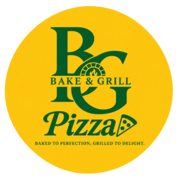
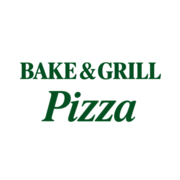
Use text-only Bake & Grill branding (#64)

diff --git a/index.html b/index.html
@@ -14,7 +14,6 @@
 <link rel="manifest" href="manifest.webmanifest">
 <link rel="apple-touch-icon" href="assets/apple-touch-icon.png">
 <link rel="icon" href="assets/favicon.png" type="image/png">
-<link rel="preload" as="image" href="assets/logo.webp" fetchpriority="high">
 <link rel="preconnect" href="https://d2ol7oe51mr4n9.cloudfront.net" crossorigin>
 <meta name="theme-color" content="#171719">
 <title>Pizza Delivery in Sanjua, Bakhrahat | Bake &amp; Grill</title>
@@ -319,7 +318,7 @@
     .ads-privacy-actions button { flex: 1; }
   }
 </style>
-<link rel="stylesheet" href="customer-finish.css?v=4">
+<link rel="stylesheet" href="customer-finish.css?v=5">
 </head>
 <body class="customer-storefront">
 <div class="location-gate" id="locationGate" aria-modal="true" role="dialog" aria-labelledby="deliveryGateTitle" aria-describedby="deliveryGateIntro">
@@ -430,8 +429,7 @@
 </div>
 <header class="topbar">
   <div class="brand">
-    <div class="logo"><img src="assets/logo.webp" alt="Bake & Grill logo" width="240" height="auto" decoding="async" fetchpriority="high"></div>
-    <div><b>Bake & Grill</b><small>PIZZA • BURGERS • MORE</small></div>
+    <b class="brand-wordmark">Bake &amp; Grill <em>Pizza</em></b>
   </div>
   <button class="header-location" id="headerDeliveryLocation" type="button" aria-label="Select or change delivery location">
     <span class="header-location-pin" aria-hidden="true"><i></i></span>

diff --git a/sw.js b/sw.js
@@ -1,7 +1,7 @@
 importScripts('https://www.gstatic.com/firebasejs/12.2.1/firebase-app-compat.js','https://www.gstatic.com/firebasejs/12.2.1/firebase-messaging-compat.js','./firebase-config.js');
 try { if (self.FIREBASE_CONFIG && !firebase.apps.length) firebase.initializeApp(self.FIREBASE_CONFIG); } catch(e) { console.warn('Firebase SW init failed',e); }
 
-const CACHE = 'bake-grill-pwa-circular-logo-v1';
+const CACHE = 'bake-grill-pwa-text-logo-v1';
 const APP_SHELL = [
   './manifest.webmanifest',
   './styles.css?v=20261125-delivery-result-v1',
@@ -10,7 +10,7 @@ const APP_SHELL = [
   './poulomi.css?v=20261126-pwa-ordering',
   './shop-hours.css?v=20261122-premium-v1',
   './promotions.css?v=20261124-kitchen-stock-v1',
-  './customer-finish.css?v=4',
+  './customer-finish.css?v=5',
   './firebase-config.js?v=20261119-appcheck-enterprise-diag-v2',
   './firebase-init.js?v=20261119-appcheck-enterprise-diag-v2',
   './hero-carousel.js?v=20261128-audit-fixes',

diff --git a/customer-finish.css b/customer-finish.css
@@ -393,9 +393,8 @@
   }
 }
 
-/* Keep the existing storefront artwork and round its outer corners. */
-.topbar .brand .logo {
-  border-radius: 50%;
-  background: transparent;
-  overflow: hidden;
+.customer-storefront .topbar .brand .brand-wordmark {
+  color: #b9e8c6;
+  font-size: clamp(16px, 3.8vw, 24px);
+  line-height: 1.15;
 }
